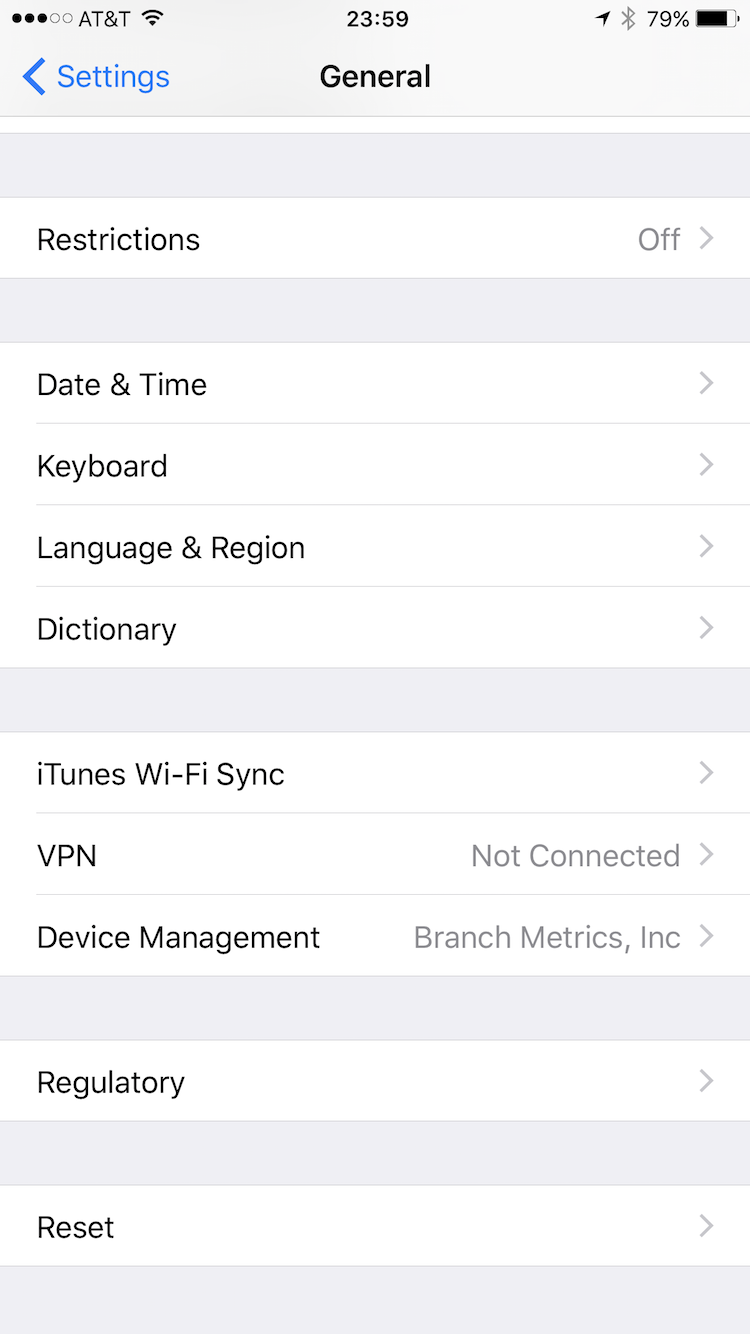
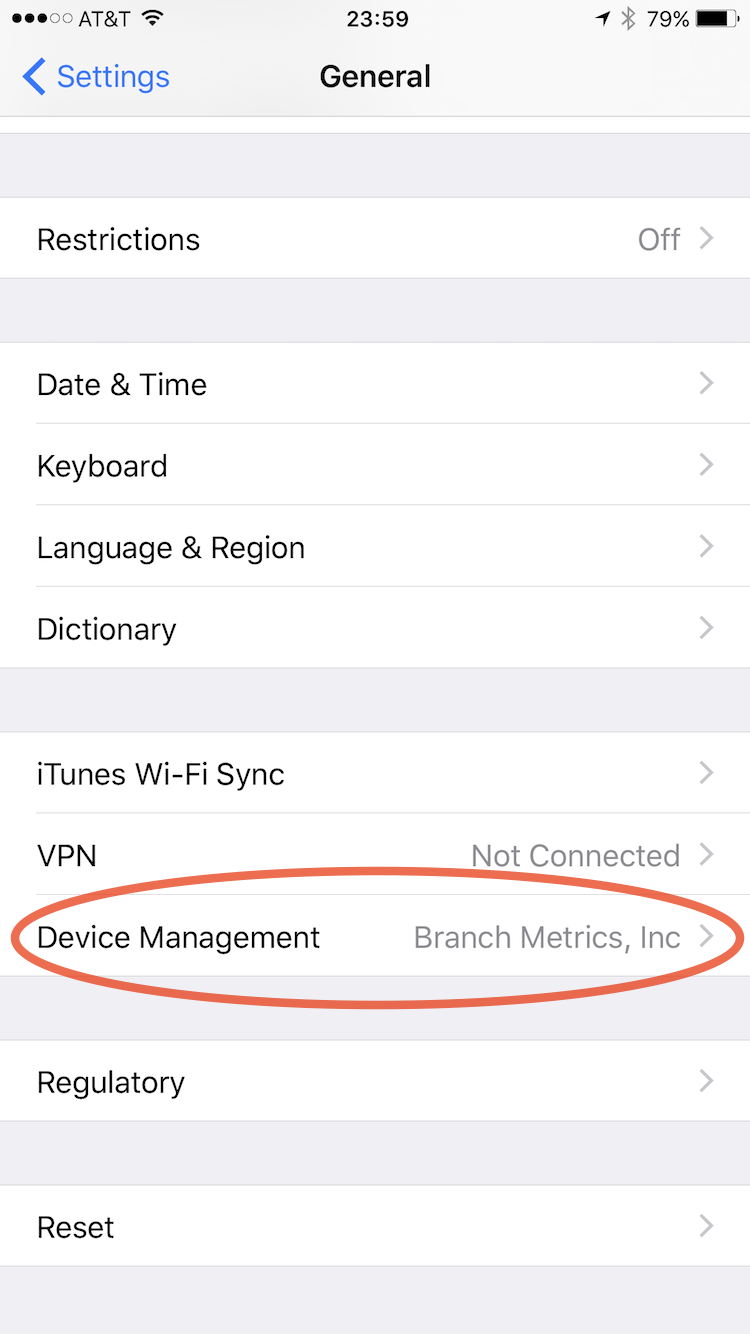
Updated art and Branch SDK.

diff --git a/Staging-Branchster/permission.html b/Staging-Branchster/permission.html
@@ -21,13 +21,14 @@ var redirect = function() {
 <body>
 <br><br>
 <div class="permissions">
-On your device you’ll have to permission to allow the Branch app to work (Only the first time).<br>
-Go to:<br>
-Settings > General > Device Management &amp; Profiles<br>
-and give the Branch app permission to run.<br>
+You’ll have to add permission to allow the Branch app to run.<br>
+Go to: Settings > General > Device Management &amp; Profiles<br>
+and add the Branch app permission.<br>
+<!--
 <a href="app-settings:root=Settings">Open Settings</a><br>
 <a href="app-settings:root=General">Open General</a><br>
 <span onclick="redirect()">Open Redirect</span><br>
+-->
 <img src="permission-0.png" alt="Permissions">
 <br>
 <img src="permission-1.png" alt="Permissions">
